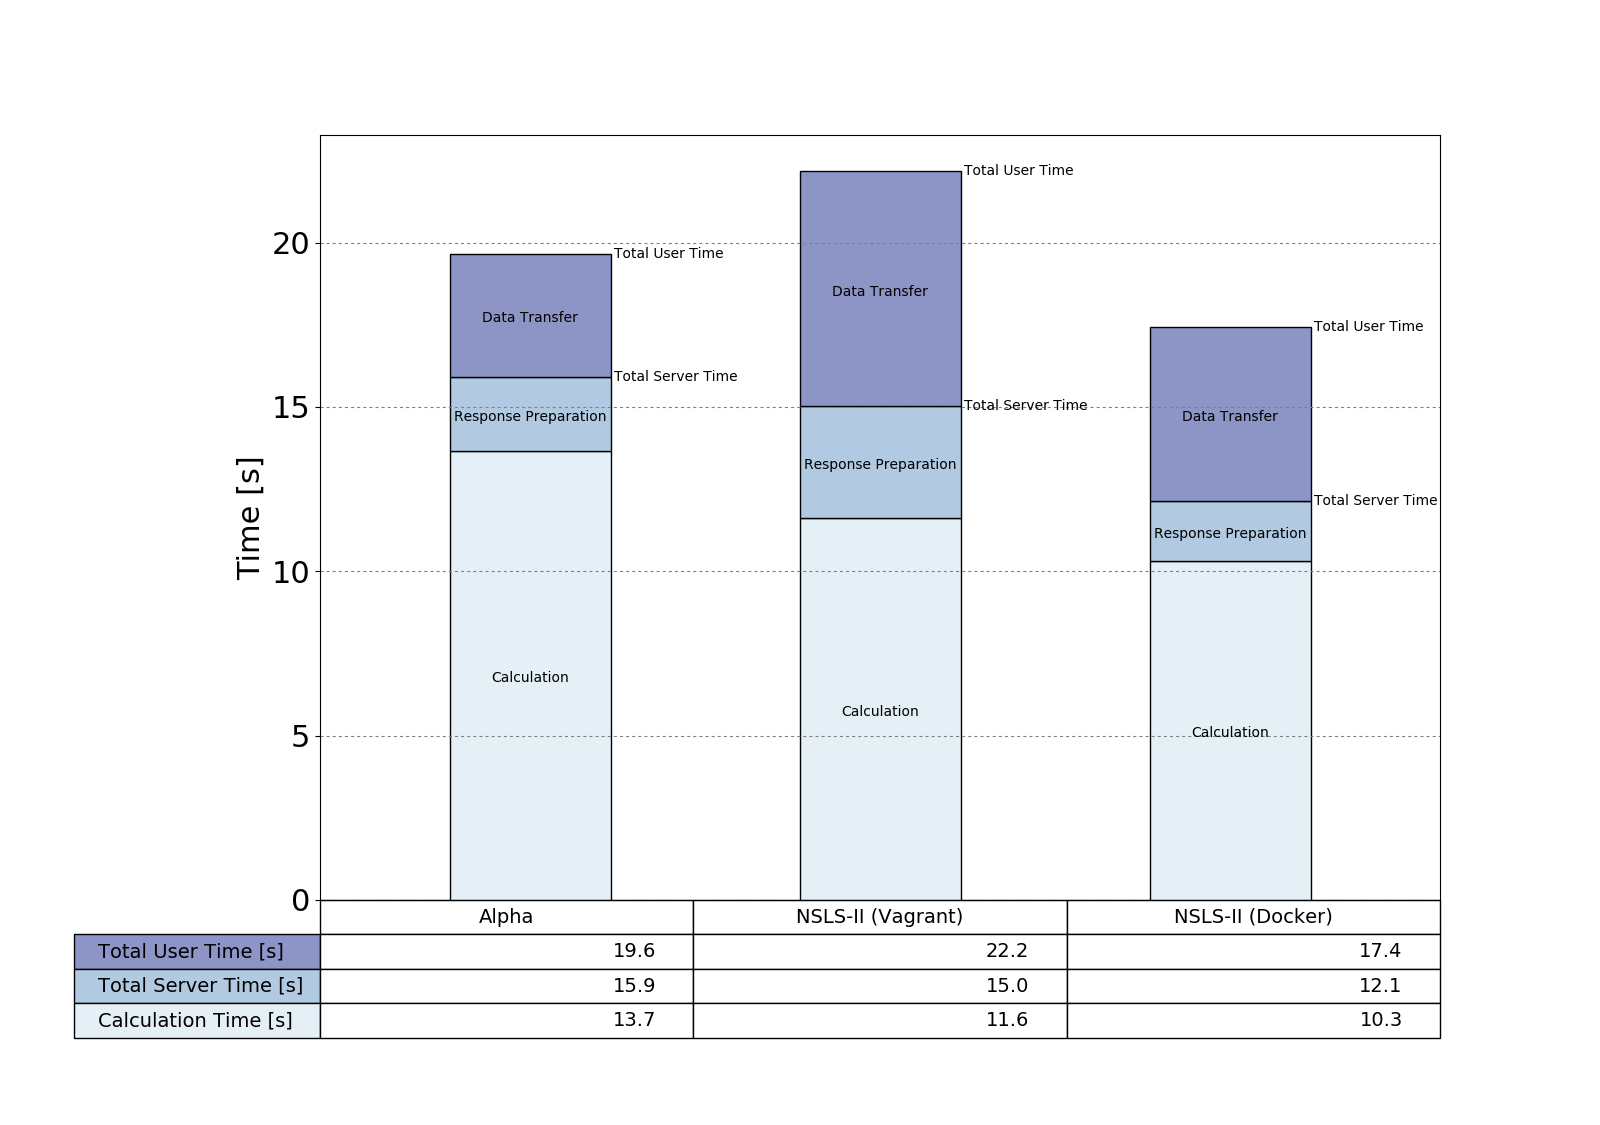
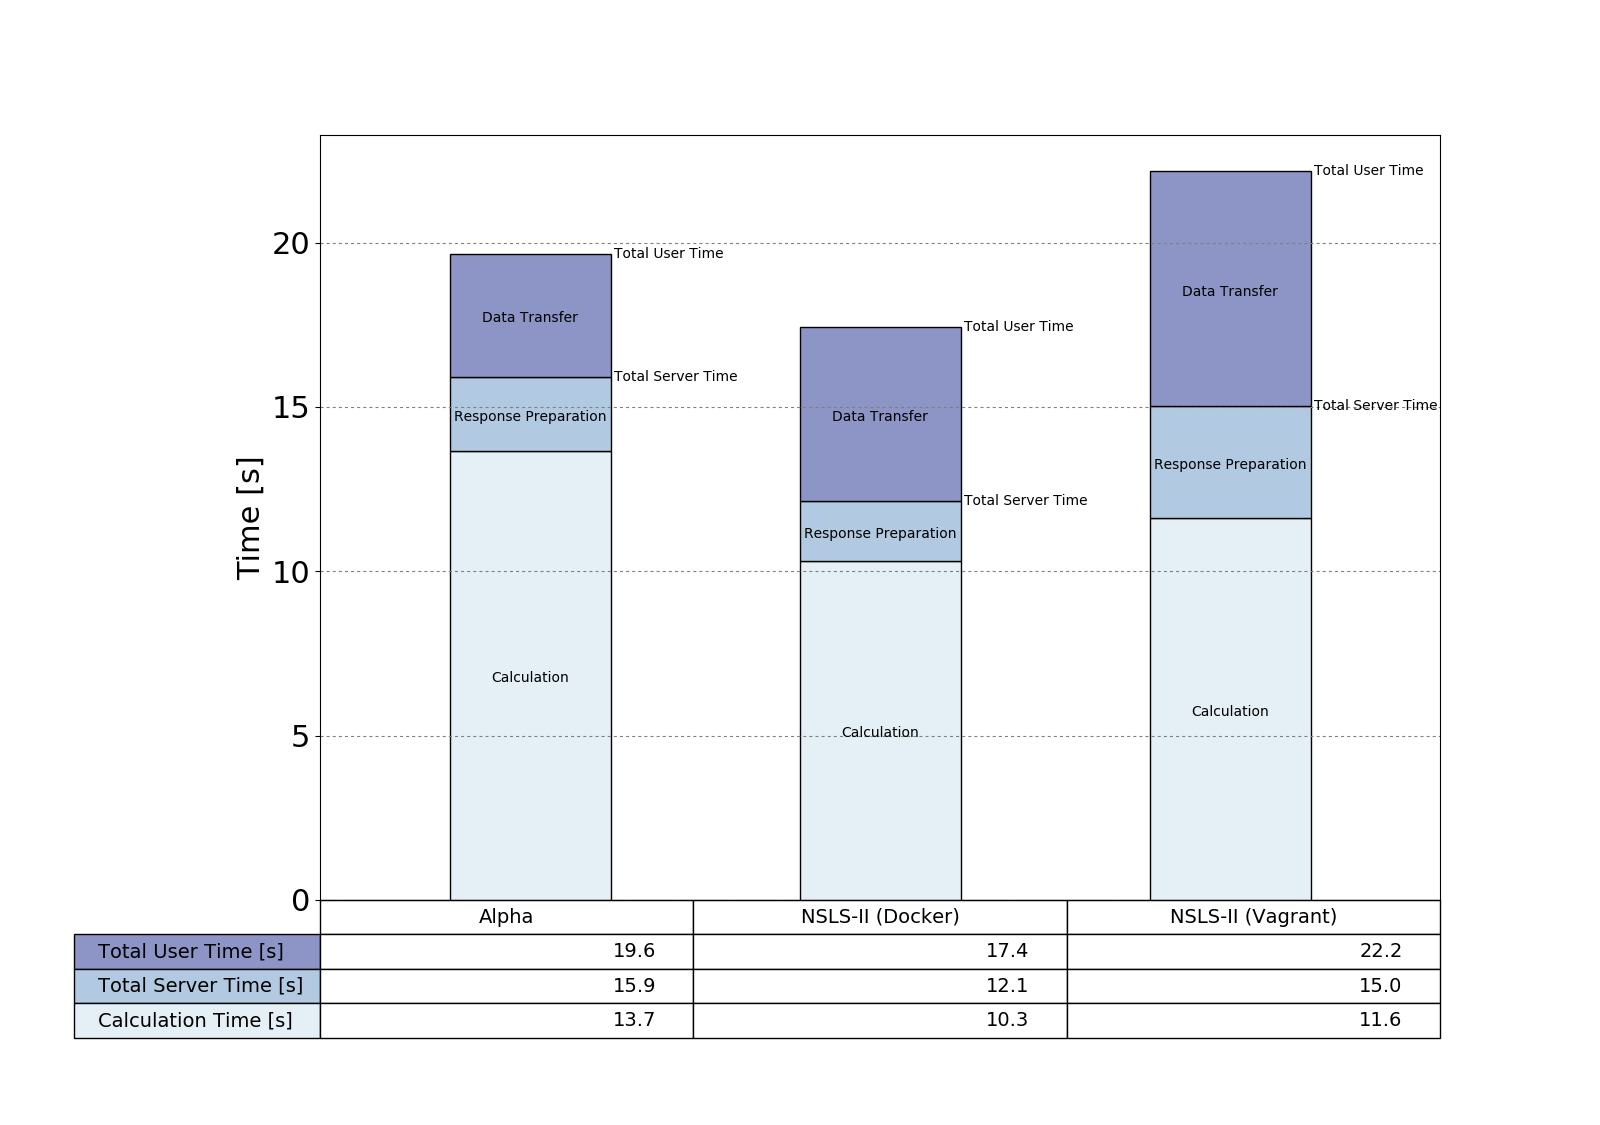
Update the sequence of the server in the stacked bar chart.

diff --git a/scripts/plot_stacked_bars.py b/scripts/plot_stacked_bars.py
@@ -7,7 +7,7 @@ import numpy as np
 
 
 def plot_stacked_bars(data, title=None, fontsize=22, figname='plot.png'):
-    columns = ('Alpha', 'NSLS-II (Vagrant)', 'NSLS-II (Docker)')
+    columns = ('Alpha', 'NSLS-II (Docker)', 'NSLS-II (Vagrant)')
     rows = ['Total User Time [s]', 'Total Server Time [s]', 'Calculation Time [s]']
     phase = ['Calculation', 'Response Preparation', 'Data Transfer']
 
@@ -88,8 +88,8 @@ if __name__ == '__main__':
     title = 'NSLS-II FMX beamline simulation time comparison'
     figname = 'stacked_bars_server_preparation.png'
     data = [
-        [13650, 11612, 10310],
-        [2268, 3406, 1826],
-        [3726, 7144, 5290],
+        [13650, 10310, 11612],
+        [2268, 1826, 3406],
+        [3726, 5290, 7144],
     ]
     plot_stacked_bars(data, figname=figname)
